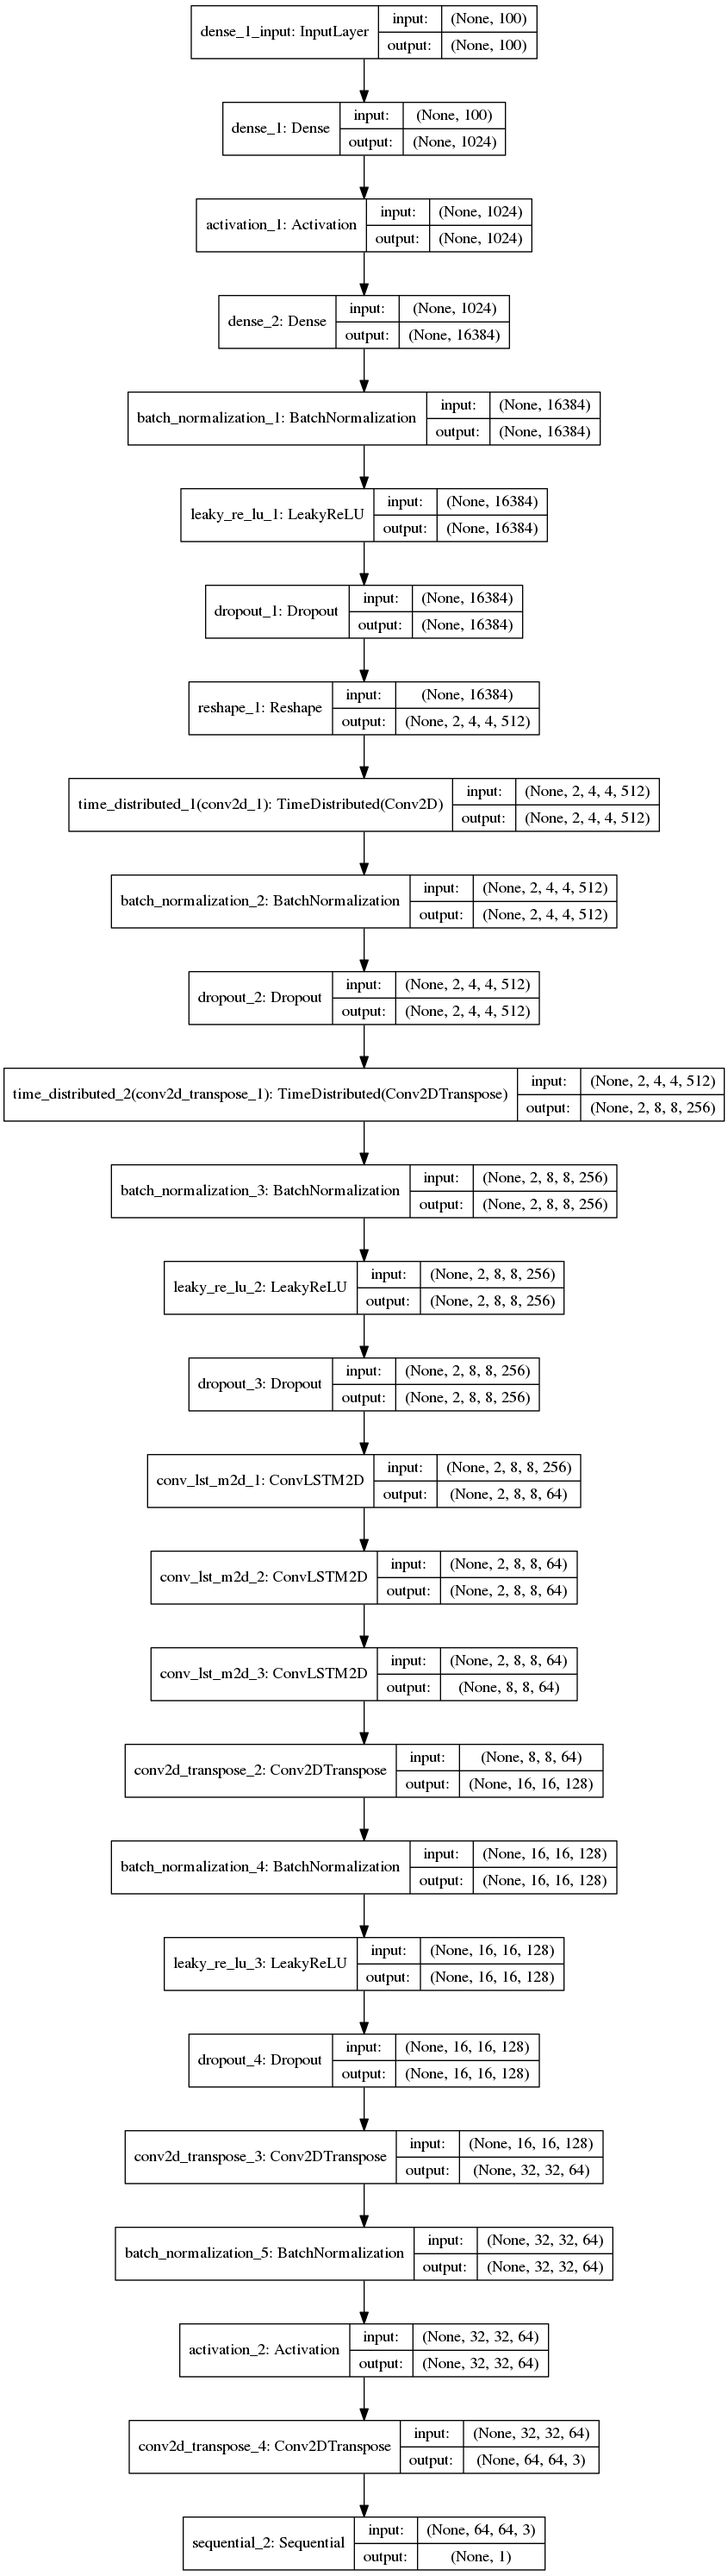
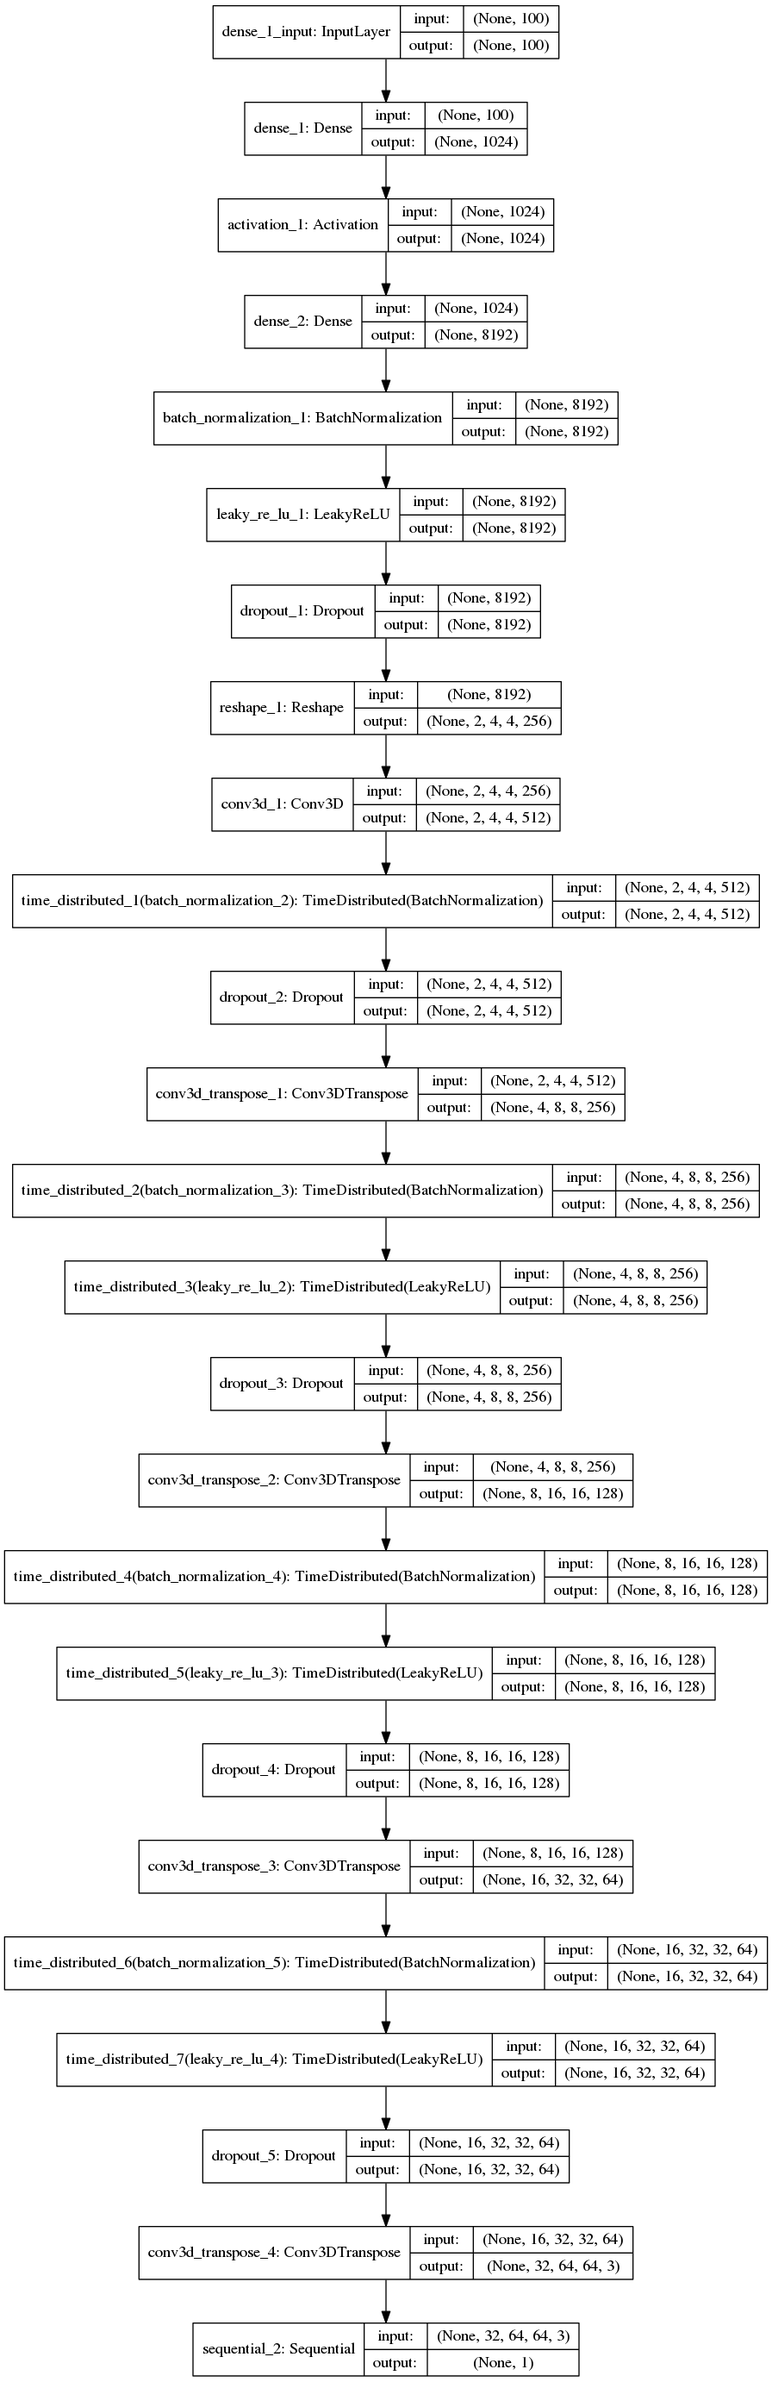
Full 3D generating no images

Changed region(s): [[0.0, 0.0, 1.0, 1.0]]

diff --git a/code/gan_model/scripts/dcgan_3d_full.py b/code/gan_model/scripts/dcgan_3d_full.py
@@ -18,7 +18,7 @@ from keras.layers.core import Flatten
 from keras.layers.normalization import BatchNormalization
 from keras.models import Sequential
 from keras.utils.vis_utils import plot_model
-from model_config_3d import *
+from model_config_dcgan_3d_full import *
 
 np.random.seed(2 ** 10)
 from PIL import Image
@@ -40,7 +40,7 @@ def generator_model():
     model.add(LeakyReLU(0.2))
     model.add(Dropout(0.5))
 
-    # 4x4 image
+    # 2x4x4
     model.add(Reshape((2, 4, 4, 256), input_shape=(2*256*4*4,)))
     # model.add(Conv2D(filters=512, kernel_size=(4, 4), padding='same'))
     model.add(Conv3D(filters=512,
@@ -51,68 +51,54 @@ def generator_model():
     model.add(TimeDistributed(BatchNormalization()))
     model.add(Dropout(0.5))
 
-    # 8x8 image
+    # 4x8x8 image
     # model.add(Conv2DTranspose(filters=256, kernel_size=(4, 4), strides=(2, 2), padding='same'))
     model.add(Conv3DTranspose(filters=256, kernel_size=(2, 4, 4), strides=(2, 2, 2), padding='same'))
     model.add(TimeDistributed(BatchNormalization()))
     model.add(TimeDistributed(LeakyReLU(0.2)))
     model.add(Dropout(0.5))
 
-    # 16x16 image
+    # 8x16x16 image
     model.add(Conv3DTranspose(filters=128, kernel_size=(2, 4, 4), strides=(2, 2, 2), padding='same'))
     model.add(TimeDistributed(BatchNormalization()))
     model.add(TimeDistributed(LeakyReLU(0.2)))
     model.add(Dropout(0.5))
 
-    # 32x32 image
-    model.add(Conv3DTranspose(filters=64, kernel_size=(2, 4, 4), strides=(1, 2, 2), padding='same'))
+    # 16x32x32 image
+    model.add(Conv3DTranspose(filters=64, kernel_size=(2, 4, 4), strides=(2, 2, 2), padding='same'))
     model.add(TimeDistributed(BatchNormalization()))
     model.add(TimeDistributed(LeakyReLU(0.2)))
     model.add(Dropout(0.5))
 
-    # 64x64 image
-    model.add(Conv3DTranspose(filters=3, kernel_size=(2, 4, 4), strides=(1, 2, 2), padding='same', activation='tanh'))
-
-    model.add(Conv3D(filters=3,
-                     kernel_size=(2, 1, 1),
-                     strides=(4, 1, 1),
-                     padding='same',
-                     data_format="channels_last",
-                     activation='relu'))
-    model.add(Conv3D(filters=3,
-                     kernel_size=(2, 1, 1),
-                     strides=(2, 1, 1),
-                     padding='same',
-                     data_format="channels_last",
-                     activation='tanh'))
-    model.add(Reshape((64, 64, 3), input_shape=(1, 64, 64, 3)))
+    # 32x64x64 image
+    model.add(Conv3DTranspose(filters=3, kernel_size=(2, 4, 4), strides=(2, 2, 2), padding='same', activation='tanh'))
 
     return model
 
 
 def discriminator_model():
     model = Sequential()
-    model.add(Conv2D(filters=64, kernel_size=(4, 4), padding='same', input_shape=(64, 64, 3)))
-    # model.add(BatchNormalization())
-    model.add(LeakyReLU(alpha=0.2))
+    model.add(Conv3D(filters=64, kernel_size=(4, 4, 4), strides=(2, 2, 2), padding='same', input_shape=(32, 64, 64, 3)))
+    # model.add(TimeDistributed(BatchNormalization()))
+    model.add(TimeDistributed(LeakyReLU(0.2)))
 
-    model.add(Conv2D(filters=64, kernel_size=(4, 4), strides=2, padding='same'))
-    # model.add(BatchNormalization())
-    model.add(LeakyReLU(alpha=0.2))
+    model.add(Conv3D(filters=128, kernel_size=(4, 4, 4), strides=(2, 2, 2), padding='same'))
+    # model.add(TimeDistributed(BatchNormalization()))
+    model.add(TimeDistributed(LeakyReLU(0.2)))
     model.add(Dropout(rate=0.5))
 
-    model.add(Conv2D(filters=128, kernel_size=(4, 4), strides=2, padding='same'))
-    # model.add(BatchNormalization())
-    model.add(LeakyReLU(alpha=0.2))
+    model.add(Conv3D(filters=256, kernel_size=(4, 4, 4), strides=(2, 2, 2), padding='same'))
+    # model.add(TimeDistributed(BatchNormalization()))
+    model.add(TimeDistributed(LeakyReLU(0.2)))
     model.add(Dropout(rate=0.5))
 
-    model.add(Conv2D(filters=256, kernel_size=(4, 4), strides=2, padding='same'))
-    # model.add(BatchNormalization())
-    model.add(LeakyReLU(alpha=0.2))
+    model.add(Conv3D(filters=512, kernel_size=(2, 4, 4), strides=(2, 2, 2), padding='same'))
+    # model.add(TimeDistributed(BatchNormalization()))
+    model.add(TimeDistributed(LeakyReLU(0.2)))
     model.add(Dropout(rate=0.5))
 
     model.add(Flatten())
-    model.add(Dense(256))
+    model.add(Dense(512))
     model.add(Activation('tanh'))
     model.add(Dense(1))
     model.add(Activation('sigmoid'))
@@ -134,12 +120,22 @@ def set_trainability(model, trainable):
 
 
 def combine_images(generated_images):
-    num = generated_images.shape[0]
+
+    # Unroll all generated video frames
+    n_frames = generated_images.shape[0]*generated_images.shape[1]
+    frames = np.zeros((n_frames, ) + generated_images.shape[2:], dtype=generated_images.dtype)
+    frame_index = 0
+    # for i in range(generated_images.shape[0]):
+    #     for j in range(generated_images.shape[1]):
+    #         frames[frame_index] = generated_images[i, j]
+    #         frame_index += 1
+
+    num = frames.shape[0]
     width = int(math.sqrt(num))
     height = int(math.ceil(float(num) / width))
-    shape = generated_images.shape[1:]
+    shape = frames.shape[1:]
     image = np.zeros((height * shape[0], width * shape[1], shape[2]), dtype=generated_images.dtype)
-    for index, img in enumerate(generated_images):
+    for index, img in enumerate(frames):
         i = int(index / width)
         j = index % width
         image[i * shape[0]:(i + 1) * shape[0], j * shape[1]:(j + 1) * shape[1], :] = img
@@ -152,8 +148,15 @@ def load_weights(weights_file, model):
 
 def train(BATCH_SIZE, GEN_WEIGHTS, DISC_WEIGHTS):
     print ("Loading data...")
-    X_train = hkl.load(os.path.join(DATA_DIR, 'X_train.hkl'))
-    X_train = (X_train.astype(np.float32) - 127.5)/127.5
+    frames = hkl.load(os.path.join(DATA_DIR, 'X_train.hkl'))
+    frames = (frames.astype(np.float32) - 127.5)/127.5
+
+    n_videos = int(frames.shape[0]/VIDEO_LENGTH)
+    X_train = np.zeros((n_videos, VIDEO_LENGTH) + frames.shape[1:], dtype=np.float32)
+
+    # Arrange frames in a progression
+    for i in range(n_videos):
+        X_train[i] = frames[i*VIDEO_LENGTH:(i+1)*VIDEO_LENGTH]
 
     if SHUFFLE:
         # Shuffle images to aid generalization
@@ -163,6 +166,10 @@ def train(BATCH_SIZE, GEN_WEIGHTS, DISC_WEIGHTS):
     # Create the Generator and Discriminator models
     generator = generator_model()
     discriminator = discriminator_model()
+
+    # print(generator.summary())
+    # print(discriminator.summary())
+    # exit(0)
 
     # Create the full GAN model with discriminator non-trainable
     GAN = gan_model(generator, discriminator)
@@ -223,7 +230,8 @@ def train(BATCH_SIZE, GEN_WEIGHTS, DISC_WEIGHTS):
 
             # Generate images
             for i in range(BATCH_SIZE):
-                noise[i, :] = np.random.normal(0, 1, 100)
+                noise[i, :] = np.random.uniform(-1, 1, 100)
+
             image_batch = X_train[index*BATCH_SIZE:(index+1)*BATCH_SIZE]
             generated_images = generator.predict(noise, verbose=0)
 
@@ -231,36 +239,26 @@ def train(BATCH_SIZE, GEN_WEIGHTS, DISC_WEIGHTS):
             X = np.concatenate((image_batch, generated_images))
             y = [1] * BATCH_SIZE + [0] * BATCH_SIZE
             d_loss.append(discriminator.train_on_batch(X, y))
-            # print("Epoch %d Batch %d d_loss : %f" % (epoch, index, d_loss))
 
             # Train GAN
             for i in range(BATCH_SIZE):
-                noise[i, :] = np.random.normal(0, 1, 100)
+                noise[i, :] = np.random.uniform(-1, 1, 100)
             set_trainability(discriminator, False)
             g_loss.append(GAN.train_on_batch(noise, [1] * BATCH_SIZE))
             set_trainability(discriminator, True)
 
-            # Train GAN as to keep gen_loss lower than d_loss
-            while(g_loss[len(g_loss)-1] > d_loss[len(d_loss)-1]):
-                # Train GAN
-                for i in range(BATCH_SIZE):
-                    noise[i, :] = np.random.normal(0, 1, 100)
-                set_trainability(discriminator, False)
-                g_loss.append(GAN.train_on_batch(noise, [1] * BATCH_SIZE))
-                set_trainability(discriminator, True)
-
             arrow = int(index/10)
             stdout.write("\rIteration: " + str(index) + "/" + str(NB_ITERATIONS-1) + "  " +
-                         "g_loss: " + str(g_loss[len(g_loss)-1]) + "\t    " + "d_loss: " + str(d_loss[len(d_loss)-1]) +
+                         "g_loss: " + str(g_loss[len(g_loss)-1]) + "\t    " + "d_loss: " + str(d_loss[len(g_loss)-1]) +
                          "\t    [" + "{0}>".format("="*(arrow)))
             stdout.flush()
 
-        if SAVE_GENERATED_IMAGES:
-            # Save generated images to file
-            image = combine_images(generated_images)
-            image = image * 127.5 + 127.5
-            # Image.fromarray(image.astype(np.uint8)).save(str(epoch) + "_" + str(index) + ".png")
-            cv2.imwrite(os.path.join(GEN_IMAGES_DIR, str(epoch) + "_" + str(index) + ".png"), image)
+            if SAVE_GENERATED_IMAGES:
+                # Save generated images to file
+                image = combine_images(generated_images)
+                image = image * 127.5 + 127.5
+                # Image.fromarray(image.astype(np.uint8)).save(str(epoch) + "_" + str(index) + ".png")
+                cv2.imwrite(os.path.join(GEN_IMAGES_DIR, str(epoch) + "_" + str(index) + ".png"), image)
 
         # then after each epoch/iteration
         avg_g_loss = sum(g_loss)/len(g_loss)
@@ -319,7 +317,7 @@ def get_args():
     parser.add_argument("--mode", type=str)
     parser.add_argument("--weights_gen", type=str, default="None")
     parser.add_argument("--weights_disc", type=str, default="None")
-    parser.add_argument("--batch_size", type=int, default=128)
+    parser.add_argument("--batch_size", type=int, default=BATCH_SIZE)
     parser.add_argument("--nice", dest="nice", action="store_true")
     parser.set_defaults(nice=False)
     args = parser.parse_args()

diff --git a/code/gan_model/scripts/model_config_dcgan_3d_full.py b/code/gan_model/scripts/model_config_dcgan_3d_full.py
@@ -10,9 +10,9 @@ import os
 # Background config:
 # DATA_DIR= '/home/pratik/DeepIntent_Datasets/KITTI_Dataset/'
 # DATA_DIR= '/local_home/data/JAAD_data/'
-# DATA_DIR= '/local_home/data/KITTI_data/'
+DATA_DIR= '/local_home/data/KITTI_data/'
 # DATA_DIR = '/grad/2/pgujjar/DeepIntent/data/JAAD_data'
-DATA_DIR = './../data/KITTI_data'
+# DATA_DIR = './../data/KITTI_data'
 
 MODEL_DIR = './../models'
 if not os.path.exists(MODEL_DIR):
@@ -38,17 +38,19 @@ PRINT_MODEL_SUMMARY = True
 SAVE_MODEL = False
 SAVE_GENERATED_IMAGES = True
 DATA_AUGMENTATION = False
-SHUFFLE = False
+SHUFFLE = True
+VIDEO_LENGTH = 32
+SHUFFLE_VIDEOS = True
 
 # -------------------------------------------------
 # Network configuration:
 print ("Loading network/training configuration...")
 
-BATCH_SIZE = 128
+BATCH_SIZE = 4
 NB_EPOCHS = 100
 IMAGE_SHAPE = (64, 64, 3)
 
 # g_optim = SGD(lr=0.0001, momentum=0.5, nesterov=True)
 # d_optim = Adam(lr=0.005, beta_1=0.5)
 G_OPTIM = Adam(lr=0.00001, beta_1=0.5)
-D_OPTIM = SGD(lr=0.0002, momentum=0.5, nesterov=True)
+D_OPTIM = SGD(lr=0.0001, momentum=0.5, nesterov=True)
